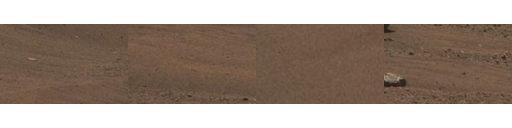
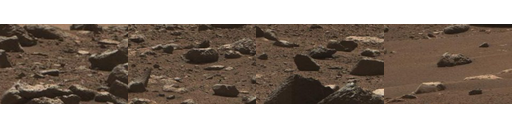
Make PHOTO the default rover-cam and drop the CG crater card.
Letterbox-free Mastcam planes, a pose-true crater bowl that fills
the frame near F8, and a Playwright sample of the moving ground.
HYBRID/3D use perspective photo ground instead of a slow heightfield scan.

diff --git a/rovercam.js b/rovercam.js
@@ -78,7 +78,7 @@ function lookAheadCrater(renderer) {
   let best = null;
   for (const cr of renderer.craterList || []) {
     const hit = lookAt(renderer, cr.c, cr.r);
-    if (hit.along < 0.12 || hit.along > 5.6) continue;
+    if (hit.along < 0.12 || hit.along > 3.7) continue;
     if (Math.abs(hit.side) > 0.85 + hit.along * 0.38) continue;
     if (!best || hit.along < best.along) best = hit;
   }
@@ -190,10 +190,6 @@ function drawCraterOverlay(ctx, renderer, w, h, horizon) {
   ctx.beginPath();
   ctx.ellipse(cx, cy, rw, rh, 0, 0, Math.PI * 2);
   ctx.clip();
-  const near = renderer.camNear || renderer.mastcamImg;
-  if (near) {
-    ctx.drawImage(near, cx - rw * 1.2, cy - rh * 0.9, rw * 2.4, rh * 2.2);
-  }
   const bowl = ctx.createRadialGradient(cx, cy + rh * 0.18, rh * 0.06, cx, cy, rh);
   bowl.addColorStop(0, 'rgba(18, 8, 4, 0.82)');
   bowl.addColorStop(0.42, 'rgba(58, 26, 12, 0.46)');
@@ -240,6 +236,7 @@ function drawLanderBillboard(ctx, renderer, w, h, horizon) {
 }
 
 function drawRockBillboards(ctx, renderer, w, h, horizon, craterHit) {
+  if ((renderer.camMode || 'photo') === 'photo') return;
   const img = renderer.camRocks;
   if (!img) return;
   const col = renderer.roverCol;
@@ -249,11 +246,11 @@ function drawRockBillboards(ctx, renderer, w, h, horizon, craterHit) {
   const fwdR = Math.sin(hdg);
   const rightC = -Math.sin(hdg);
   const rightR = Math.cos(hdg);
-  for (let i = 0; i < 10; i++) {
-    const z = 0.5 + i * 0.4;
+  for (let i = 0; i < 6; i++) {
+    const z = 0.7 + i * 0.55;
     if (craterHit && Math.abs(z - craterHit.along) < 0.5) continue;
     const n = renderer._noiseAt(col * 3.1 + i * 7.2, row * 2.7 + i);
-    if (n < 0.28) continue;
+    if (n < 0.42) continue;
     const side = (n - 0.62) * 1.55;
     const sx = w / 2 + side * (w * 0.5) / z;
     const sy = horizon + (0.15 / z) * h + 8;
@@ -421,119 +418,55 @@ function floorCast(renderer, img, bw, bh, horizonY, eyeH, cheap) {
   return true;
 }
 
+function drawPerspGround(ctx, img, w, h, horizon, pan, drive, squish, extraY) {
+  if (!img) return;
+  ctx.save();
+  ctx.imageSmoothingEnabled = true;
+  ctx.imageSmoothingQuality = 'high';
+  ctx.beginPath();
+  ctx.rect(0, horizon - 6, w, h - horizon + 6);
+  ctx.clip();
+  ctx.translate(w / 2, h);
+  ctx.transform(1 + Math.min(0.2, drive * 0.04), 0, 0, squish, 0, 0);
+  ctx.translate(-w / 2, -(h * 0.7) + extraY);
+  blitWrap(ctx, img, -pan * 230 - drive * 72, 0, w * 1.75, h * 0.92);
+  ctx.restore();
+}
+
 function drawHybrid(ctx, renderer, w, h, t) {
-  const cheap = softwareCheap();
   const heading = renderer.heading;
   const pan = heading + Math.PI / 2;
   const moving = !!(renderer.anim && renderer.anim.moving);
   const bob = (moving && !renderer.reduceMotion ? Math.sin(t * 16) * 2.4 : 0.5);
   const drive = driveAmt(renderer);
-  const eyeH = 0.17 + (moving ? Math.sin(t * 16) * 0.01 : 0);
   const horizon = h * 0.34 + bob * 0.15;
   ctx.fillStyle = '#2a1c12';
   ctx.fillRect(0, 0, w, h);
   drawSkyPhoto(ctx, renderer, w, h, pan + drive * 0.08, bob);
-  const scale = cheap ? 4 : 2;
-  const bw = Math.max(120, Math.round(w / scale));
-  const bh = Math.max(68, Math.round(h / scale));
-  const buf = camBuf(renderer, bw, bh);
-  const hz = horizon * (bh / h);
-  if (floorCast(renderer, buf.img, bw, bh, hz, eyeH, cheap)) {
-    buf.ctx.putImageData(buf.img, 0, 0);
-    ctx.save();
-    ctx.imageSmoothingEnabled = true;
-    ctx.imageSmoothingQuality = cheap ? 'medium' : 'high';
-    ctx.drawImage(buf.canvas, 0, 0, w, h);
-    ctx.restore();
-  } else {
-    const near = renderer.camNear || renderer.mastcamImg;
-    if (near) blitWrap(ctx, near, -pan * 220 - drive * 55, h * 0.48 + bob, w * 1.7, h * 0.58);
-  }
-  const craterHit = drawCraterOverlay(ctx, renderer, w, h, horizon);
-  drawRockBillboards(ctx, renderer, w, h, horizon, craterHit);
+  const mid = renderer.camMid || renderer.mastcamImg;
+  const near = renderer.camNear || renderer.mastcamImg;
+  drawPerspGround(ctx, mid, w, h, horizon, pan, drive, 0.62, -8);
+  drawPerspGround(ctx, near, w, h, horizon + 8, pan, drive, 0.48, 10);
+  drawCraterOverlay(ctx, renderer, w, h, horizon);
   drawLanderBillboard(ctx, renderer, w, h, horizon);
 }
 
 function drawVoxel(ctx, renderer, w, h, t) {
-  const cheap = softwareCheap();
-  const scale = cheap ? 3 : 1;
-  const cw = Math.max(160, Math.round(w / scale));
-  const ch = Math.max(90, Math.round(h / scale));
-  const moving = !!(renderer.anim && renderer.anim.moving);
-  const bob = (moving && !renderer.reduceMotion) ? Math.sin(t * 17) * 0.012 : 0;
-  const eyeH = 0.18 + bob;
-  const horizon = ch * 0.34;
-  const zNear = 0.08;
-  const zFar = 6.6;
-  const steps = cheap ? 28 : 88;
-  const fov = 1.2;
-  const col = renderer.roverCol + 0.5;
-  const row = renderer.roverRow + 0.42;
   const heading = renderer.heading;
-  const fwdC = Math.cos(heading);
-  const fwdR = Math.sin(heading);
-  const rightC = -Math.sin(heading);
-  const rightR = Math.cos(heading);
   const pan = heading + Math.PI / 2;
+  const moving = !!(renderer.anim && renderer.anim.moving);
+  const bob = (moving && !renderer.reduceMotion ? Math.sin(t * 17) * 2.2 : 0.4);
+  const drive = driveAmt(renderer);
+  const horizon = h * 0.34 + bob * 0.12;
   ctx.fillStyle = '#c9a070';
   ctx.fillRect(0, 0, w, h);
-  drawSkyPhoto(ctx, renderer, w, h, pan, bob * 40);
-  const buf = camBuf(renderer, cw, ch);
-  const img = buf.img;
-  const data = img.data;
-  data.fill(0);
-  const mips = ensurePhotoTex(renderer);
-  const ybuf = new Int16Array(cw);
-  ybuf.fill(ch);
-  for (let i = 0; i < steps; i++) {
-    const u = i / (steps - 1);
-    const z = zNear + (zFar - zNear) * u * u;
-    const mip = z > 3.1 ? 2 : z > 1.55 ? 1 : 0;
-    const tex = mips ? mips[cheap ? Math.min(2, mip + 1) : mip] : null;
-    for (let x = 0; x < cw; x++) {
-      const camX = (x / cw - 0.5) * fov;
-      const wx = col + fwdC * z + rightC * camX * z;
-      const wy = row + fwdR * z + rightR * camX * z;
-      const ht = renderer._heightAt(wx, wy);
-      const sy = horizon - ((ht - eyeH) / z) * ch * 0.95;
-      const y0 = sy < 0 ? 0 : sy > ch ? ch : (sy | 0);
-      if (y0 >= ybuf[x]) continue;
-      let r;
-      let g;
-      let b;
-      if (tex) {
-        [r, g, b] = sampleWrap(tex, wx * 118 + heading * 70, wy * 92 + 40);
-      } else if (renderer.camColor) {
-        r = renderer._sampleBilinear(renderer.camColor, renderer.hW, wx, wy, 4, 0);
-        g = renderer._sampleBilinear(renderer.camColor, renderer.hW, wx, wy, 4, 1);
-        b = renderer._sampleBilinear(renderer.camColor, renderer.hW, wx, wy, 4, 2);
-      } else {
-        r = 168; g = 118; b = 72;
-      }
-      [r, g, b] = shadeGround(renderer, wx, wy, fwdC, fwdR, r, g, b, z);
-      const ir = r | 0;
-      const ig = g | 0;
-      const ib = b | 0;
-      for (let y = y0; y < ybuf[x]; y++) {
-        const p = (y * cw + x) * 4;
-        data[p] = ir;
-        data[p + 1] = ig;
-        data[p + 2] = ib;
-        data[p + 3] = 255;
-      }
-      ybuf[x] = y0;
-    }
-  }
-  buf.ctx.putImageData(img, 0, 0);
-  ctx.save();
-  ctx.imageSmoothingEnabled = true;
-  ctx.imageSmoothingQuality = cheap ? 'medium' : 'high';
-  ctx.drawImage(buf.canvas, 0, 0, w, h);
-  ctx.restore();
-  const craterHit = lookAheadCrater(renderer);
-  drawCraterOverlay(ctx, renderer, w, h, h * 0.34);
-  drawRockBillboards(ctx, renderer, w, h, h * 0.34, craterHit);
-  drawLanderBillboard(ctx, renderer, w, h, h * 0.34);
+  drawSkyPhoto(ctx, renderer, w, h, pan, bob);
+  const near = renderer.camNear || renderer.mastcamImg;
+  const mid = renderer.camMid || renderer.mastcamImg;
+  drawPerspGround(ctx, mid, w, h, horizon, pan, drive, 0.58, -6);
+  drawPerspGround(ctx, near, w, h, horizon + 6, pan, drive, 0.44, 12);
+  drawCraterOverlay(ctx, renderer, w, h, horizon);
+  drawLanderBillboard(ctx, renderer, w, h, horizon);
 }
 
 export function drawRoverCam(renderer, now, t) {

diff --git a/tests/ui.test.js b/tests/ui.test.js
@@ -960,7 +960,8 @@ test.describe('Far Rover UI Tests', () => {
     const sampleCam = () => page.evaluate(() => {
       const c = document.getElementById('rover-cam-canvas');
       const ctx = c.getContext('2d');
-      const { data } = ctx.getImageData(48, 48, 220, 140);
+      // Lower field: sky is mostly static, pose shows up in the near ground.
+      const { data } = ctx.getImageData(40, 130, 240, 120);
       let r = 0, g = 0, b = 0, n = 0;
       for (let i = 0; i < data.length; i += 4) {
         r += data[i];
@@ -993,20 +994,11 @@ test.describe('Far Rover UI Tests', () => {
       const before = await sampleCam();
       await page.click('#step-btn');
       await expect(page.locator('.tick-indicator')).toContainText('Tick 1');
-      await page.waitForFunction((prev) => {
-        const c = document.getElementById('rover-cam-canvas');
-        if (!c) return false;
-        const { data } = c.getContext('2d').getImageData(48, 48, 220, 140);
-        let r = 0, g = 0, b = 0, n = 0;
-        for (let i = 0; i < data.length; i += 4) {
-          r += data[i];
-          g += data[i + 1];
-          b += data[i + 2];
-          n++;
-        }
-        r /= n; g /= n; b /= n;
-        return Math.hypot(r - prev.r, g - prev.g, b - prev.b) > 3;
-      }, before, { timeout: 8000 });
+      await page.waitForFunction(() => {
+        const r = window.__orbitalRenderer;
+        return r && !r.anim;
+      }, null, { timeout: 8000 });
+      await page.waitForTimeout(80);
       const after = await sampleCam();
       expect(dist(before, after)).toBeGreaterThan(3);
       await expect(page.locator('.tick-indicator')).toContainText('Tick 1');

diff --git a/orbital.js b/orbital.js
@@ -153,6 +153,7 @@ export class OrbitalRenderer {
       this.motionQuery.addEventListener?.('change', this.onMotion);
     }
     this.syncCloudTargets();
+    if (typeof window !== 'undefined') window.__orbitalRenderer = this;
     this.loadArt().then(() => {
       if (this.disposed) return;
       this.ready = true;
@@ -213,6 +214,9 @@ export class OrbitalRenderer {
   dispose() {
     if (this.disposed) return;
     this.disposed = true;
+    if (typeof window !== 'undefined' && window.__orbitalRenderer === this) {
+      window.__orbitalRenderer = null;
+    }
     if (this.raf) cancelAnimationFrame(this.raf);
     window.removeEventListener('resize', this.onResize);
     this.motionQuery?.removeEventListener?.('change', this.onMotion);

diff --git a/tools/bake-rovercam.py b/tools/bake-rovercam.py
@@ -76,10 +76,10 @@ def main():
     # Rock chips from the Mastcam near field (readable stones for billboards)
     rocks = Image.new('RGBA', (512, 128), (0, 0, 0, 0))
     chips = [
-        (620, 980, 220, 140),
-        (1180, 920, 200, 130),
-        (240, 1040, 180, 120),
-        (1540, 860, 190, 125),
+        (200, 520, 220, 160),
+        (700, 560, 280, 200),
+        (1100, 600, 280, 200),
+        (40, 700, 240, 200),
     ]
     mast = Image.open(OUT / 'mastcam.jpg').convert('RGBA')
     mw, mh = mast.size
